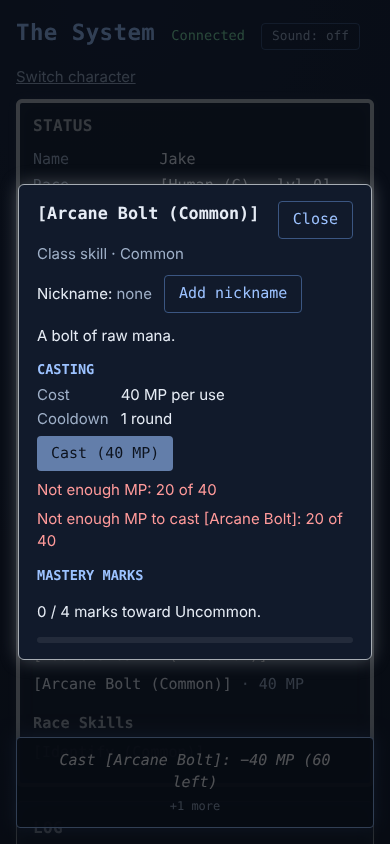
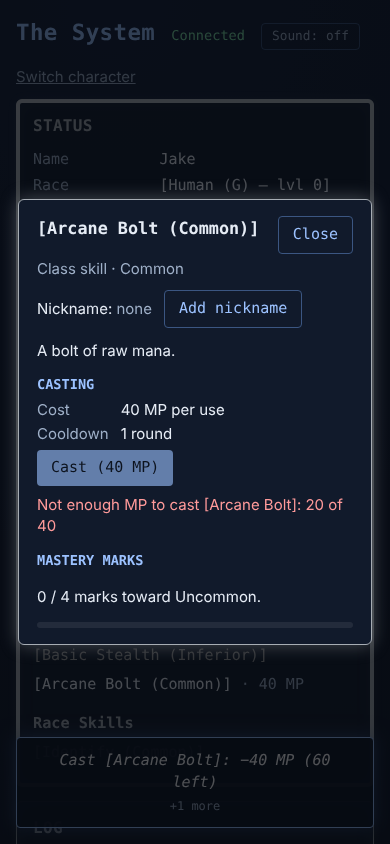
fix(MU.5): round-2 Lows — one red line after a refusal, Cast describes the refusal, feed and review screenshots
Claude-Session: https://claude.ai/code/session_015YxiCdenvgbfX2DC6SMhpS

diff --git a/e2e/MU.5.spec.ts b/e2e/MU.5.spec.ts
@@ -133,7 +133,9 @@ test('a player casts from their phone; too low is refused; the GM sees it and un
   await cast.click();
   await expect(detail.getByTestId('skill-cast-result')).toContainText('Not enough MP');
   await expect(detail.getByTestId('skill-cast-result')).toContainText('20 of 40');
-  await expect(detail.getByTestId('skill-cast-pool')).toHaveText('Not enough MP: 20 of 40');
+  // One red line, not two: the pool line steps aside for the refusal.
+  await expect(detail.getByTestId('skill-cast-pool')).toHaveCount(0);
+  await expect(cast).toHaveAccessibleDescription(/Not enough MP to cast/);
   await phone.screenshot({ path: path.join(shots, 'player-too-low-390x844.png') });
 
   // The GM's feed shows each cast; the change log undoes the last one.
@@ -146,6 +148,7 @@ test('a player casts from their phone; too low is refused; the GM sees it and un
   await openWindow(gm, 'practice-capture');
   await expect(review).toContainText('To review (2)');
   await expect(review.getByText('Cast [Arcane Bolt]')).toHaveCount(2);
+  await review.screenshot({ path: path.join(shots, 'gm-practice-review-1366x768.png') });
   const log = gm.locator('section[aria-labelledby="change-log"]');
   await openWindow(gm, 'change-log');
   const rows = log.getByRole('listitem').filter({ hasText: 'Jake skill cast (Arcane Bolt)' });
@@ -160,7 +163,7 @@ test('a player casts from their phone; too low is refused; the GM sees it and un
   await expect(review).toContainText('To review (1)');
   await expect(review.getByText('Cast [Arcane Bolt]')).toHaveCount(1);
   await openWindow(gm, 'feed');
-  await gm.screenshot({ path: path.join(shots, 'gm-feed-1366x768.png') });
+  await feed.screenshot({ path: path.join(shots, 'gm-feed-1366x768.png') });
 
   // Jake on a laptop sees the same.
   const jake = await browser.newPage({ viewport: { width: 1366, height: 768 } });

diff --git a/apps/web/src/player/SkillDetail.tsx b/apps/web/src/player/SkillDetail.tsx
@@ -187,20 +187,24 @@ function Cast({
         data-testid="skill-cast"
         disabled={busy}
         className={short ? 'cast-short' : undefined}
-        aria-describedby="skill-cast-pool"
+        aria-describedby="skill-cast-pool skill-cast-result"
         onClick={() => void cast()}
       >
         Cast ({costText(view.rules, skill)})
       </button>
-      <p id="skill-cast-pool" className={short ? 'err' : 'muted'} data-testid="skill-cast-pool">
-        {short
-          ? `Not enough ${label}: ${have} of ${cost.amount}`
-          : `${label} ${have}/${pool?.max ?? have}`}
-      </p>
+      {/* After a refusal the server's message says it; no second red line. */}
+      {!(short && message && !message.ok) && (
+        <p id="skill-cast-pool" className={short ? 'err' : 'muted'} data-testid="skill-cast-pool">
+          {short
+            ? `Not enough ${label}: ${have} of ${cost.amount}`
+            : `${label} ${have}/${pool?.max ?? have}`}
+        </p>
+      )}
       {message && (
         <p
           className={message.ok ? 'ok' : 'err'}
           role={message.ok ? 'status' : 'alert'}
+          id="skill-cast-result"
           data-testid="skill-cast-result"
         >
           {message.text}
